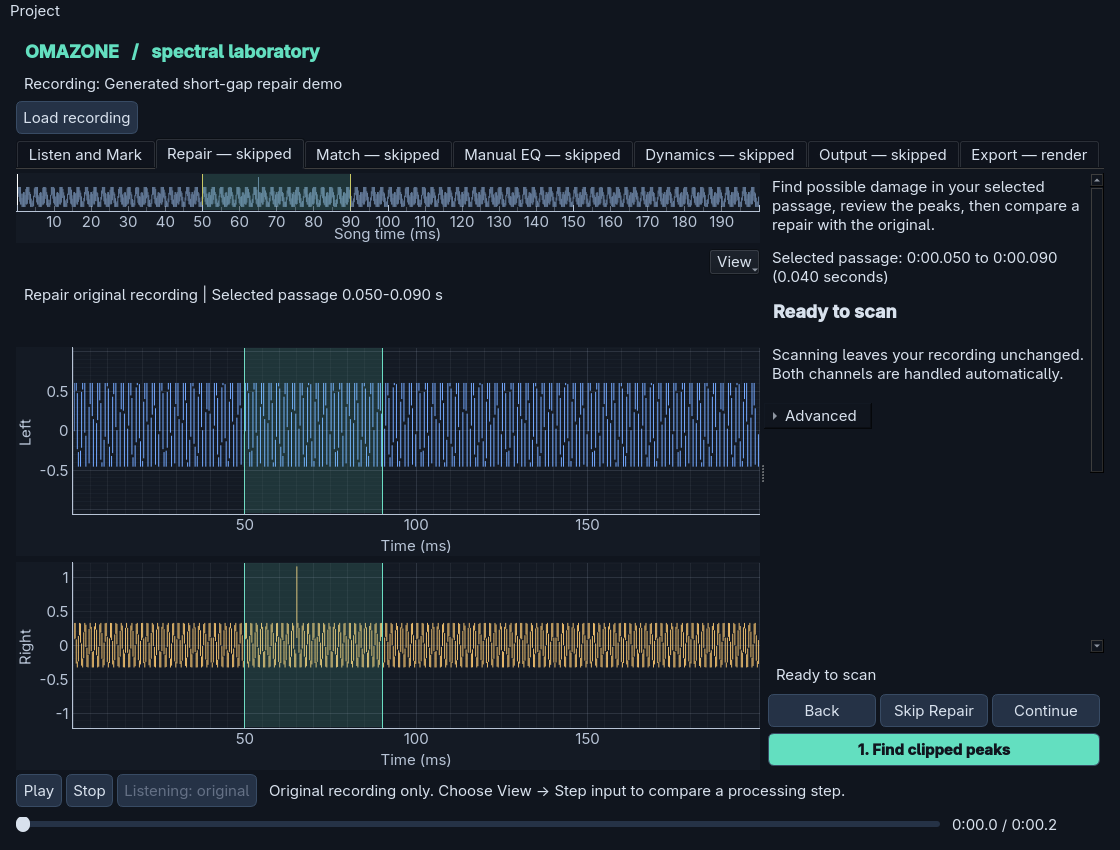
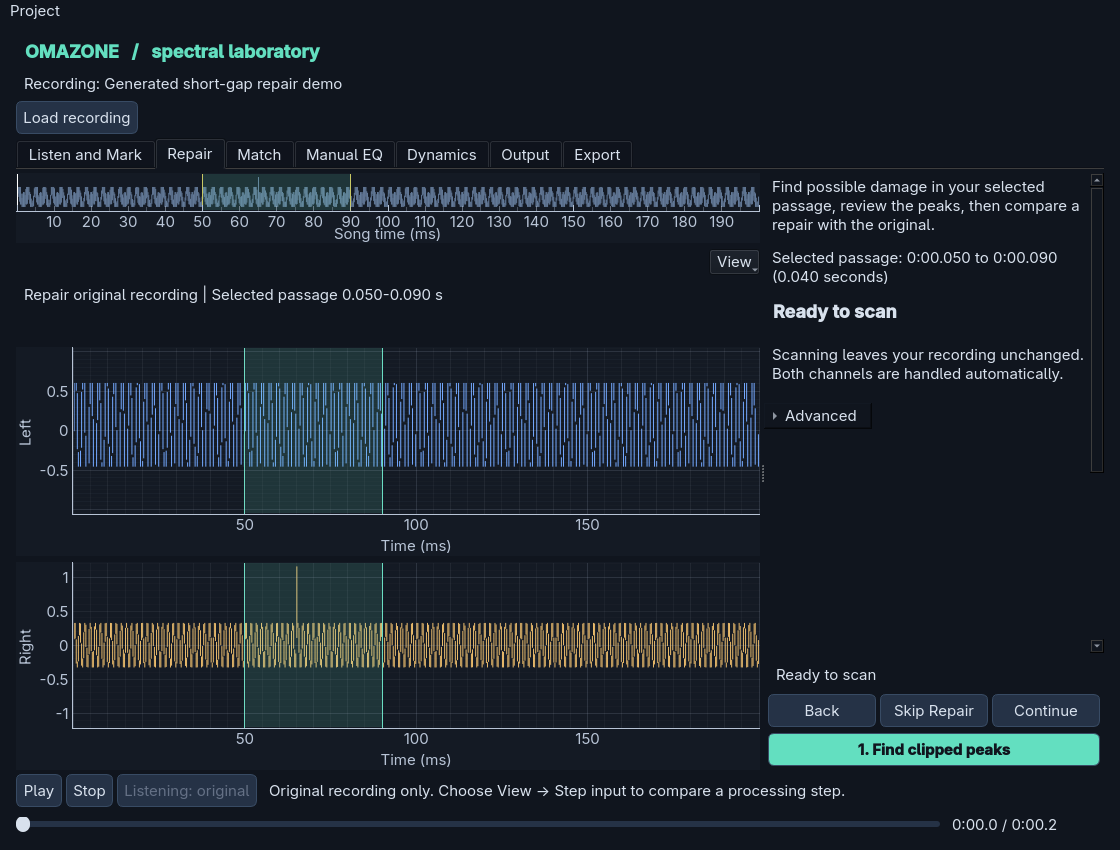
Shorten the navigation bar instead of hiding steps (#73)
Half-screening the window put Export off the end of the bar. Seven steps
carrying their state need about 1085px, so anything narrower scrolled the
rest away, and Export is where delivery happens.

The bar now picks the roomiest label set that fits: state labels, then plain
titles, then short titles. The state always stays on the tooltip, so
narrowing never loses it. A minimum window size gives a floor below which
the stacked layout has no room for the plots at all.

Measured at each tier: 1085px with state, 617px without, 489px short.

Changed region(s): [[0.1875, 0.1529, 0.625, 0.2141], [0.6562, 0.1529, 0.9062, 0.2141], [0.9375, 0.1529, 0.9688, 0.1835]]

diff --git a/tests/test_workflow_steps.py b/tests/test_workflow_steps.py
@@ -26,10 +26,6 @@ from omazone.workflow_steps import (
     step_for,
 )
 
-# Measured for seven steps carrying status labels. A window narrower than
-# this scrolls the bar and hides Export.
-STEP_BAR_BUDGET = 1100
-
 
 def test_step_names_are_unique_and_lookups_are_strict():
     assert len(set(KEYS)) == len(KEYS)
@@ -204,34 +200,103 @@ def test_a_saved_selection_written_as_a_comparison_name_still_lands_on_that_step
     assert clamp("eq") == "eq"
 
 
-def test_the_step_bar_budget_covers_every_status_labelled_step(tmp_path):
-    """Status suffixes roughly double the bar, so all seven steps need real width.
-
-    Below the budget the bar scrolls and Export disappears, which is where
-    delivery happens. Nothing else notices, so pin it here rather than leaving
-    it to be discovered in a screenshot.
-    """
+def open_window_with_project(tmp_path, width):
+    """A window on a real recording, so every step carries a state label."""
     app = QtWidgets.QApplication.instance() or QtWidgets.QApplication([])
     window = Window()
     rate = 16000
     audio = np.random.default_rng(313).normal(0, 0.2, (rate, 2))
     source = tmp_path / "mix.wav"
     sf.write(source, audio, rate, subtype="DOUBLE")
+    window.show()
+    window.loaded("source", load_audio(source))
+    for _ in range(4):
+        app.processEvents()
+    # A resize before the window is mapped is ignored offscreen.
+    window.resize(width, 900)
+    for _ in range(8):
+        app.processEvents()
+    return app, window
+
+
+def bar_state(window):
+    """Visible tab labels and whether they fit without scrolling."""
+    bar = window.views.navigation
+    visible = [index for index in range(bar.count()) if bar.isTabVisible(index)]
+    labels = [bar.tabText(index) for index in visible]
+    needed = sum(bar.tabSizeHint(index).width() for index in visible)
+    return labels, needed <= bar.width()
+
+
+def test_every_step_offers_a_short_title():
+    """A short title is the last way the bar fits; a step without one cannot."""
+    for step in STEPS:
+        assert step.short, f"{step.key} has no short title"
+
+
+def test_the_step_bar_keeps_every_step_visible_in_a_narrow_window(tmp_path):
+    """Half-screening used to push Export off the end of the bar.
+
+    Seven status labels need about 1085px, which a narrow window does not have.
+    The bar now drops the state and keeps the titles rather than scrolling.
+    """
+    app, window = open_window_with_project(tmp_path, 945)
     try:
-        window.show()
-        window.loaded("source", load_audio(source))
-        for _ in range(4):
-            app.processEvents()
-        bar = window.views.navigation
-        visible = [index for index in range(bar.count()) if bar.isTabVisible(index)]
-        assert len(visible) == len(NAVIGATION)
-        # tabSizeHint is the natural width; tabRect is what a full bar allows.
-        needed = sum(bar.tabSizeHint(index).width() for index in visible)
-        assert needed <= STEP_BAR_BUDGET, (
-            f"the seven steps grew to {needed}px; shorten a title or raise "
-            f"STEP_BAR_BUDGET, and check the window still works on a 1366px screen"
-        )
+        labels, fits = bar_state(window)
+        assert len(labels) == len(NAVIGATION)
+        assert fits, f"the bar still scrolls at 945px: {labels}"
+        assert any("Export" in label for label in labels)
     finally:
         window.project.mark_saved()
         window.close()
         app.processEvents()
+
+
+def test_the_full_labels_return_when_the_window_is_wide_again(tmp_path):
+    app, window = open_window_with_project(tmp_path, 945)
+    try:
+        narrow, _ = bar_state(window)
+        window.resize(1600, 900)
+        for _ in range(8):
+            app.processEvents()
+        wide, _ = bar_state(window)
+        assert wide != narrow
+        assert any("\u2014" in label for label in wide), wide
+    finally:
+        window.project.mark_saved()
+        window.close()
+        app.processEvents()
+
+
+def test_narrowing_the_bar_never_loses_a_step_state(tmp_path):
+    """The suffix is what goes; the state moves to the tooltip rather than away."""
+    app, window = open_window_with_project(tmp_path, 945)
+    try:
+        bar = window.views.navigation
+        visible = [index for index in range(bar.count()) if bar.isTabVisible(index)]
+        assert not any("\u2014" in bar.tabText(index) for index in visible)
+        keys = window.views.visibleSteps()
+        states = dict(zip(keys, (bar.tabToolTip(i) for i in visible), strict=True))
+        # Listen and Mark is not a processing stage, so it has no state to show.
+        with_state = [key for key in keys if BY_KEY[key].stage is not None or key == "export"]
+        assert all("\u2014" in states[key] for key in with_state), states
+        assert any("skipped" in states[key] for key in with_state), states
+        assert states["listen"] == BY_KEY["listen"].title
+    finally:
+        window.project.mark_saved()
+        window.close()
+        app.processEvents()
+
+
+def test_the_window_refuses_to_go_below_the_narrow_layout_floor():
+    """Below this the stacked layout has no room for the plots at all."""
+    window = Window()
+    try:
+        assert window.minimumWidth() >= 800
+        assert window.minimumWidth() <= STEP_BAR_NARROWEST + 200
+    finally:
+        window.close()
+
+
+# The tightest label set, measured. The bar must fit inside the window floor.
+STEP_BAR_NARROWEST = 620

diff --git a/src/omazone/tool_panel.py b/src/omazone/tool_panel.py
@@ -53,6 +53,72 @@ class ToolPanel(QtWidgets.QWidget):
         self.navigation.currentChanged.connect(self.change_tool)
 
         self.step_keys = []
+        self._label_variants = []
+        self._refit_pending = False
+
+    def scheduleRefit(self):
+        """Re-pick labels once the layout has applied the new width.
+
+        A resize event arrives before the bar is laid out, so measuring here
+        would compare labels against the previous width and keep them too long.
+        """
+        if self._refit_pending:
+            return
+        self._refit_pending = True
+        QtCore.QTimer.singleShot(0, self._runScheduledRefit)
+
+    def _runScheduledRefit(self):
+        self._refit_pending = False
+        self.refitNavigation()
+
+    def setLabelVariants(self, variants):
+        """Hold roomiest-first label sets and apply whichever fits right now.
+
+        Seven steps carrying their state need about 1085px, which a half-screened
+        window does not have. Rather than clip or scroll Export out of sight,
+        shorten the bar and keep every step reachable. The state always stays on
+        the tooltip, so narrowing the window never loses it.
+        """
+        self._label_variants = [list(labels) for labels in variants if labels]
+        self.refitNavigation()
+
+    def navigationFits(self):
+        bar = self.navigation
+        visible = [index for index in range(bar.count()) if bar.isTabVisible(index)]
+        needed = sum(bar.tabSizeHint(index).width() for index in visible)
+        return needed <= bar.width()
+
+    def refitNavigation(self):
+        """Re-pick the label set for the current width.
+
+        The short set is expected to fit any usable window, so scrolling is a
+        last resort rather than the normal way Export disappears.
+        """
+        if not self._label_variants:
+            return
+        labels = self._label_variants[-1]
+        for candidate in self._label_variants:
+            self._applyLabels(candidate)
+            if self.navigationFits():
+                labels = candidate
+                break
+        self._applyLabels(labels)
+        self._applyTooltips(self._label_variants[0])
+
+    def _applyLabels(self, labels):
+        if len(labels) != len(self.step_keys):
+            return
+        for index, text in enumerate(labels):
+            if self.navigation.tabText(index) != text:
+                self.navigation.setTabText(index, text)
+
+    def _applyTooltips(self, labels):
+        """The roomiest label doubles as the tooltip, so state is never lost."""
+        if len(labels) != len(self.step_keys):
+            return
+        for index, text in enumerate(labels):
+            if self.navigation.tabToolTip(index) != text:
+                self.navigation.setTabToolTip(index, text)
 
     def addTab(self, page, step):
         """Register one page. The step supplies the title, so there is one source."""

diff --git a/src/omazone/gui.py b/src/omazone/gui.py
@@ -182,6 +182,10 @@ class Window(ProjectController, QtWidgets.QMainWindow):
         super().__init__()
         self.setWindowTitle("Omazone | spectral matching playground")
         self.resize(1120, 800)
+        # Below this the stacked layout has no room left for the plots, and the
+        # window would open larger than the screen it is on.
+        self.setMinimumWidth(820)
+        self.setMinimumHeight(560)
         self.project = Project()
         self.project_path = None
         self.restoring_project = False
@@ -986,6 +990,8 @@ class Window(ProjectController, QtWidgets.QMainWindow):
         super().resizeEvent(event)
         if hasattr(self, "workspace_split"):
             self.configure_workflow_layout()
+        # The bar holds seven labels; narrow the window and they no longer fit.
+        self.views.scheduleRefit()
 
     def refresh_file_labels(self):
         if self.views.currentWidget() is self.clipping_inspector or (
@@ -1059,10 +1065,8 @@ class Window(ProjectController, QtWidgets.QMainWindow):
 
     def update_step_navigation(self, workflow):
         """Show each step's state on its navigation entry, and control Continue."""
+        states = {}
         for step in NAVIGATION:
-            index = self.views.indexOfStep(step.key)
-            if index < 0:
-                continue
             status = workflow.stages[step.stage] if step.stage else None
             if step.key == "export":
                 # Export is a step rather than a stage, so name whatever is
@@ -1072,9 +1076,24 @@ class Window(ProjectController, QtWidgets.QMainWindow):
                     workflow.render_reason,
                     workflow.render_action,
                 )
-            label = f"{step.title} — {nav_label(status)}" if status is not None else step.title
-            if self.views.navigation.tabText(index) != label:
-                self.views.navigation.setTabText(index, label)
+            states[step.key] = nav_label(status) if status is not None else None
+
+        def variant(title_of, with_state):
+            labels = []
+            for key in self.views.step_keys:
+                entry = step_for(key)
+                state = states.get(key)
+                labels.append(title_of(entry) + (f" — {state}" if with_state and state else ""))
+            return labels
+
+        # Roomiest first: the bar keeps each step's state visible until it cannot.
+        self.views.setLabelVariants(
+            [
+                variant(lambda step: step.title, True),
+                variant(lambda step: step.title, False),
+                variant(lambda step: step.short or step.title, False),
+            ]
+        )
         step = step_for(self.views.currentStep())
         status = self.current_step_status(workflow)
         busy = self.worker is not None

diff --git a/src/omazone/workflow_steps.py b/src/omazone/workflow_steps.py
@@ -31,6 +31,9 @@ class Step:
     # The comparison model's key for the same stage. Navigation accepts either,
     # because "output" and "output-gain" naming the same thing is a trap.
     aliases: tuple[str, ...] = ()
+    # Used when the window is too narrow for the full title. Seven full titles
+    # need about 940px, so a half-screened window has to give something up.
+    short: str = ""
 
     @property
     def workflow_index(self):
@@ -40,15 +43,33 @@ class Step:
 # The workflow, in the order a learner moves through it. Reference targets and
 # Mix sections are secondary pages inside Match, so they carry no bar entry.
 STEPS = (
-    Step("listen", "Listen and Mark"),
-    Step("repair", "Repair", "repair", skippable=True),
-    Step("match", "Match", "match", spectral=True, skippable=True, aliases=("mastering",)),
-    Step("reference", "Reference targets", "match", part_of="match", secondary=True),
-    Step("sections", "Mix sections", "match", part_of="match", secondary=True),
-    Step("eq", "Manual EQ", "eq", spectral=True, skippable=True),
-    Step("dynamics", "Dynamics", "dynamics", spectral=True, skippable=True),
-    Step("output", "Output", "output", spectral=True, skippable=True, aliases=("output-gain",)),
-    Step("export", "Export"),
+    Step("listen", "Listen and Mark", short="Listen"),
+    Step("repair", "Repair", "repair", skippable=True, short="Repair"),
+    Step(
+        "match",
+        "Match",
+        "match",
+        spectral=True,
+        skippable=True,
+        aliases=("mastering",),
+        short="Match",
+    ),
+    Step(
+        "reference", "Reference targets", "match", part_of="match", secondary=True, short="Targets"
+    ),
+    Step("sections", "Mix sections", "match", part_of="match", secondary=True, short="Sections"),
+    Step("eq", "Manual EQ", "eq", spectral=True, skippable=True, short="EQ"),
+    Step("dynamics", "Dynamics", "dynamics", spectral=True, skippable=True, short="Dynamics"),
+    Step(
+        "output",
+        "Output",
+        "output",
+        spectral=True,
+        skippable=True,
+        aliases=("output-gain",),
+        short="Output",
+    ),
+    Step("export", "Export", short="Export"),
 )
 
 # Only these appear in the navigation bar, and only these can be stepped through

diff --git a/tests/test_gui.py b/tests/test_gui.py
@@ -1652,8 +1652,16 @@ def test_navigation_shows_each_step_state_and_export_reviews_the_chain(tmp_path)
         }
 
     def states():
+        """What each step reports about its state.
+
+        Read the tooltip rather than the tab text: a narrow window drops the
+        suffix from the label to keep every step on the bar, and the state is
+        still there. Whether it is also shown inline is covered by the narrow
+        bar tests.
+        """
+        bar = window.views.navigation
         return {
-            key: window.views.navigation.tabText(window.views.indexOfStep(key))
+            key: bar.tabToolTip(window.views.indexOfStep(key))
             for key in window.views.visibleSteps()
         }
 
